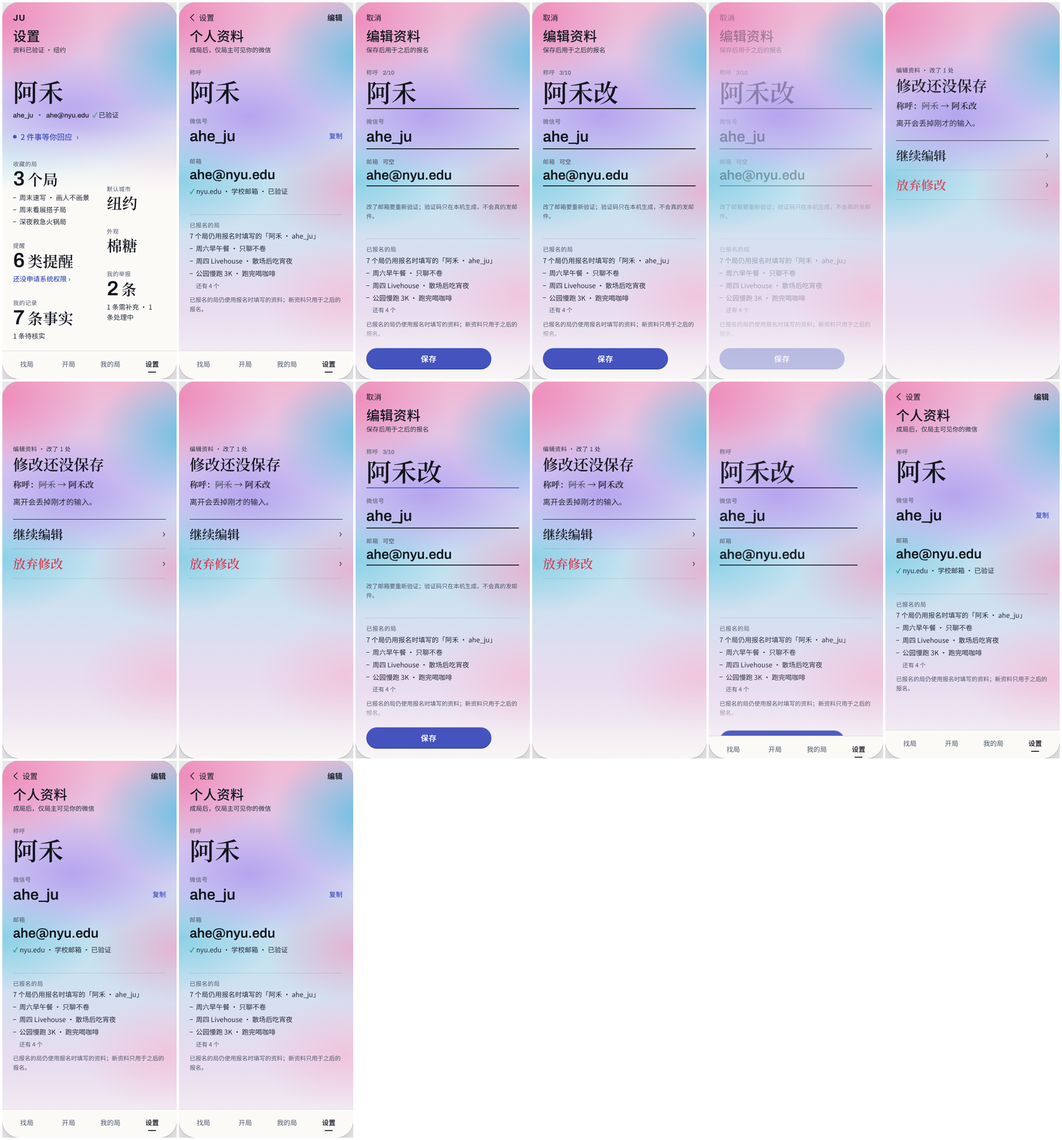
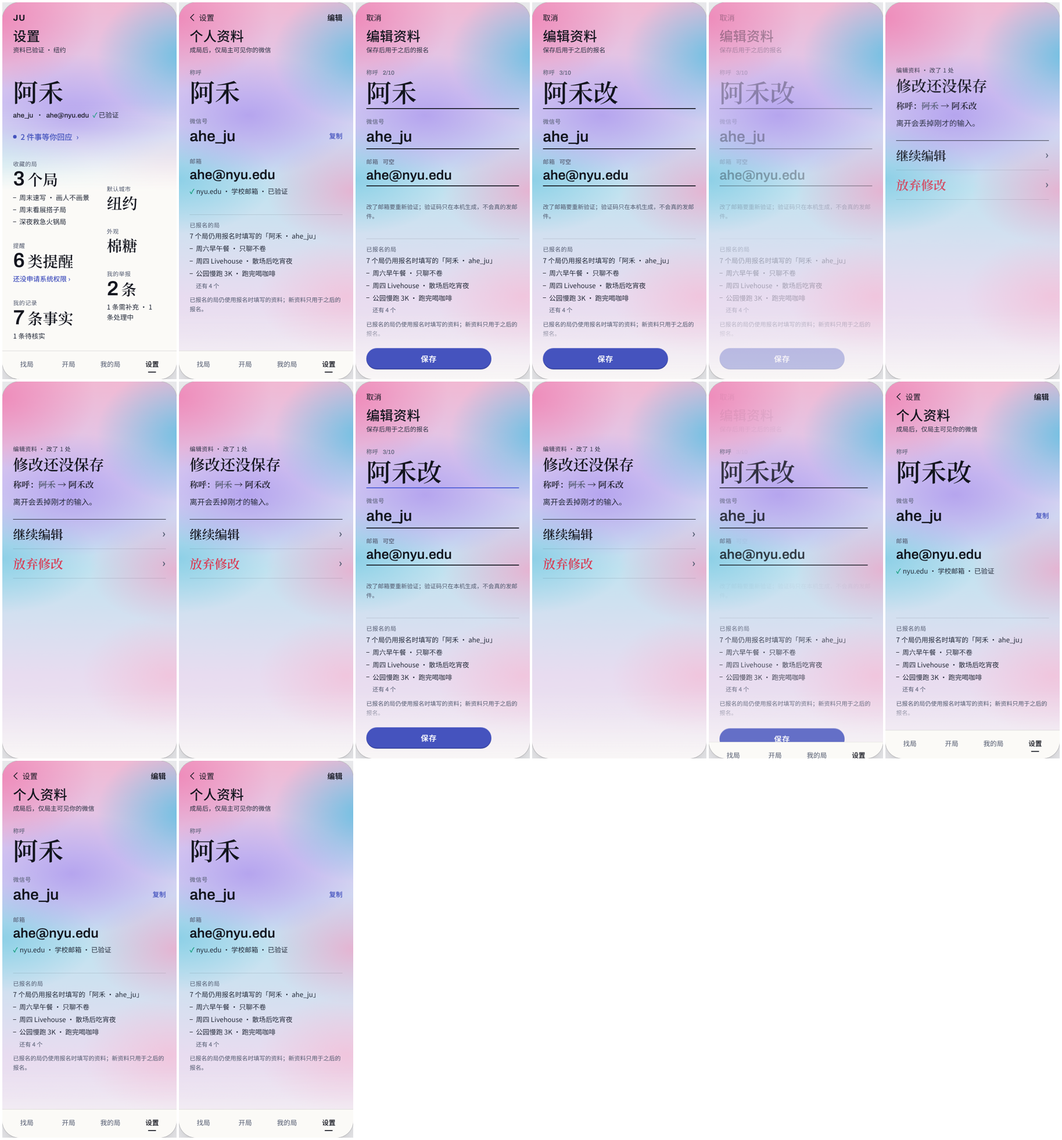
Settings R2: S08 fix round complete (detail pages as rows of columns with a 64px lead value, whole-number peeks, no text selection on drag); lead re-check done, independent second review started; in-flight files
Claude-Session: https://claude.ai/code/session_01HHMV8n5dsCb7GnB9ZyBH3p

diff --git a/settings-r2/concepts/src/S01.dc.html b/settings-r2/concepts/src/S01.dc.html
@@ -214,7 +214,7 @@ body{margin:0}
 .s01-lentb:active .s01-rt{color:var(--blue);transition:color 90ms}
 .s01-say-s{margin-top:10px;font-size:28px;line-height:1.3}
 .s01-say.is-act{color:var(--blue)}
-.s01-lent.is-swapout :is(.s01-lentb,.s01-lentf){animation:s01-fo calc(200ms * var(--k,1)) var(--e1) forwards}
+.s01-lent.is-swapout :is(.s01-lentb,.s01-lentf){animation:s01-fo calc(260ms * var(--k,1)) var(--e2) forwards}
 .s01-lent.is-swapin :is(.s01-lentb,.s01-lentf){animation:s01-fi calc(240ms * var(--k,1)) var(--e1) backwards}
 /* list yield: a removed entry folds its height away (rows below follow); undo unfolds it */
 .s01-yield{display:grid;grid-template-rows:1fr}
@@ -284,6 +284,9 @@ body{margin:0}
 .s01-li{display:block;margin-top:7px;padding-left:14px;position:relative;font-size:15px;line-height:1.45;color:var(--body);word-break:keep-all;overflow-wrap:anywhere;display:-webkit-box;-webkit-line-clamp:2;-webkit-box-orient:vertical;overflow:hidden}
 .s01-li::before{content:"";position:absolute;left:0;top:.72em;width:7px;height:1px;background:var(--ink)}
 .s01-li+.s01-li{margin-top:5px}
+/* home: one line per favourite — the name, then its tagline only if the whole tagline fits (it wraps to the clipped 2nd line otherwise) */
+.s01-li.is-1{display:block;height:1.45em;-webkit-line-clamp:none}
+.s01-li.is-1>span{display:inline-block;max-width:100%;white-space:nowrap;overflow:hidden;text-overflow:ellipsis;vertical-align:top}
 .s01-more{display:block;margin-top:7px;padding-left:14px;font-size:13px;color:var(--sec)}
 .s01-idx{display:flex;flex-wrap:wrap;margin-top:52px;border-top:1px solid var(--rule)}
 .s01-idx button{position:relative;min-height:56px;padding:0 15px 0 0;margin-right:15px;font-size:15px;color:var(--body)}
@@ -529,7 +532,7 @@ textarea.s01-in{min-height:1lh}
                   <span class="s01-lab">收藏的局</span>
                   <sc-if value="{{v.home.favEmpty}}"><span class="s01-val" data-m="fav-n">还没有</span><span class="s01-sub">遇到想去的，留在这里</span></sc-if>
                   <sc-if value="{{v.home.favAny}}"><span class="s01-val" data-m="fav-n"><b class="s01-n">{{v.home.favN}}</b>个局</span>
-                    <sc-for list="{{v.home.favNames}}" as="f" hint-placeholder-count="3"><span class="s01-li">{{f}}</span></sc-for>
+                    <sc-for list="{{v.home.favNames}}" as="f" hint-placeholder-count="3"><span class="s01-li is-1"><span>{{f.a}}</span><sc-if value="{{f.b}}"><span>{{f.b}}</span></sc-if></span></sc-for>
                     <sc-if value="{{v.home.favMore}}"><span class="s01-more">{{v.home.favMore}}</span></sc-if></sc-if>
                 </button>
                 <button type="button" class="s01-blk" data-origin="notify" onClick="{{v.h.goVal.notify}}">
@@ -993,7 +996,6 @@ function s01Pg(s) { return s === 'profile-edit' ? 'profile' : (s === 'favorite-d
 /* 局 titles: the separator dot stays with the phrase before it, so a line never starts with (or is only) a dot */
 function s01T(t) { return String(t || '').replace(/ · /g, '\u00a0· '); }
 /* home list: at most two phrases of a title, never ending on a separator */
-function s01Short(t) { var p = String(t || '').split(' · '); return p.length > 2 ? s01T(p.slice(0, 2).join(' · ')) + '…' : s01T(t); }
 function s01Brk(t) { return String(t || '').replace(/([@._-])/g, '$1'); }
 function s01Uniq(s) { var seen = {}, out = ''; Array.from(s).forEach(function (ch) { if (!seen[ch] && !/\s/.test(ch)) { seen[ch] = 1; out += ch; } }); return out; }
 function s01Strings(o, out) { if (typeof o === 'string') out.push(o); else if (o && typeof o === 'object') Object.keys(o).forEach(function (k) { s01Strings(o[k], out); }); return out; }
@@ -1175,10 +1177,10 @@ class Component extends DCLogic {
     v.mailState = you.email ? (you.verified ? '已验证' : '未验证') : ''; v.mailMark = you.email && you.verified ? '✓' : '';
     v.copyFail = you.copyFail ? JUS.COPY.copyFailInline + '：' + you.copyFail : '';
     /* home */
-    var favRows = c.fav.rows || []; var reps = c.reps.rows || []; var repOpen = reps.filter(function (r) { return r.open; }).length; var perm = sum.permission;
+    var favRows = c.fav.rows || []; var perm = sum.permission;
     v.home = {
       aux: ((!you.wx || !you.email) ? '资料待完善' : you.verified ? '资料已验证' : '邮箱未验证') + ' · ' + sum.cityLabel,
-      favAny: sum.favCount > 0, favEmpty: sum.favCount === 0, favN: String(sum.favCount), favNames: favRows.slice(0, 3).map(function (r) { return s01Short(r.title); }), favMore: sum.favCount > 3 ? '还有 ' + (sum.favCount - 3) + ' 个' : '',
+      favAny: sum.favCount > 0, favEmpty: sum.favCount === 0, favN: String(sum.favCount), favNames: favRows.slice(0, 3).map(function (r) { var p = String(r.title || '').split(' · '); return { a: p[0], b: p.length > 1 ? '\u00a0·\u00a0' + p[1] + (p.length > 2 ? '…' : '') : '' }; }), favMore: sum.favCount > 3 ? '还有 ' + (sum.favCount - 3) + ' 个' : '',
       notifyN: String(c.notify.onCount),
       permLine: ({ default: '还没申请系统权限 ›', requesting: '正在等系统回答', granted: sum.serviceConnected ? '系统已允许 · 可以送达' : '系统已允许 · 提醒暂未开通', denied: '系统通知已拒绝', unsupported: '当前环境不支持系统通知' })[perm] || '',
       permCls: perm === 'default' ? ' s01-link' : '',

diff --git a/settings-r2/concepts/src/S08.dc.html b/settings-r2/concepts/src/S08.dc.html
@@ -1020,8 +1020,7 @@ class Component extends DCLogic {
     /* help / privacy / about / rules */
     x.hp = { u: sub('help', [{ name: '常见问题' }, { name: '我的反馈 ' + c.help.feedback.length, n: c.help.feedback.length }, { name: '约定与举报', n: JUS.RULES.length }]), nfb: c.help.feedback.length };
     x.pv = { u: sub('privacy', [{ name: '规则' }, { name: '你的局 ' + c.privacy.facts.length, n: c.privacy.facts.length }]), n: c.privacy.facts.length, g: (c.privacy.general || []).map((t, i) => ({ k: ['称呼', '微信', '邮箱', '联系'][i] || '', t: t })) };
-    const abv = String(c.about.version || '').split(' · ');
-    x.ab = { h1: abv[0], h2: abv.slice(1).join(' · '), cities: JUS.CITIES.length + ' 座', built: String(c.about.built || '').slice(0, 10) || '本机', u: sub('about', [{ name: '关于' }, { name: '约定', n: JUS.RULES.length }]) };
+    x.ab = { cities: JUS.CITIES.length + ' 座', built: String(c.about.built || '').slice(0, 10) || '本机', u: sub('about', [{ name: '关于' }, { name: '约定', n: JUS.RULES.length }]) };
     const ru = sub('rules', c.help.groups.map(g => ({ name: g.name })));
     x.ru = Object.assign(ru, { panes: c.help.groups.map((g, j) => ({ name: g.name, line: g.line, rules: g.rules, pc: ru.pc[j], st: '--j:' + j, sc: ru.sc[j], on: ru.on[j] })) });
     /* seams */

diff --git a/settings-r2/spec/verification.md b/settings-r2/spec/verification.md
@@ -35,7 +35,7 @@
 | S03 上光下墨 | 12 页（三环境 + 灰度）与确认层：两种材料贯穿；提出账户页偏素、光晕半亮档、保存落回时长、墨色下半是否像通用深色四处待判 | **1 blocker / 5 major / 11 minor**（另报共享 3 minor，已在 `4585eb1` 修：手机内不提评审面板与存储键、已允许 + 已连接时不再说「暂未开通」）。blocker：我的局历史行的回执被截成「举报 · ···」，三个宽度都看不到「已提交 / 已受理 / 需补充」。major：toast 固定在底部 100px、无底，保存后压在「编辑资料」上；首页墨面没有被点亮的焦点（灰度下一摞等灰的盒子）；收藏拿出 / 撤回无让位动作、颜色按位置分配会换色；375 下资料页「编辑资料」在根导航下面；保存后拖关键帧停在「保存中…」且重播会再写一次数据。回答：账户页可接受但最弱；光晕下三档亮度仍可读；保存时长感觉正常；墨色下半在光晕 / 落日成立、棉糖最像通用深色 | **已完成**（构建者自报：blocker + 5 major + 明确的 minor 已修，coverage 52/52、宽度 / 键盘 / 减少动态无问题）。主负责人复看 `twelve/sheet.jpg`、`home-3env-gray.jpg`、`fix/mine-receipts/strip1.jpg`：我的局回执独占一行、三个阶段可读（blocker 已解）；首页「2 件事等你回应」成为墨面上最亮的一块（三环境与灰度）；toast 移到光带——**视觉通过**（最终离线文件上另做一次十套横向复核） |
 | S05 居中仪式 | 12 页接触表：每页同尺寸光团承载主角；提出单调、居中长文、内嵌卡像「手机里的手机」三处待判 | **0 blocker / 5 major / 12 minor**。major（视觉两项为重点）：**单调**——每张卡同一位置同一 316px 光团，12 页只差光里的字，帮助与规则都以「18 条约定」开头，光晕下 12 个相同的火圈，列表与控件总在首屏以下；**手机里的手机**——卡片接近手机比例、嵌套圆角、阴影、JU 标像状态栏，两侧 24px 空白浪费 48px 文字宽度；资料静止态（签名终点）说明被底部渐隐截断；编辑页 40px 单行居中输入只放得下约 7 个汉字；「开着｜关了」看似两段却整体切换（点已选的「开着」反而关掉）。回答：仪式感只在第一步，之后是单调；规则 16px 居中可读，但 3 行以上段落应离开中轴。共享 3 minor（举报补充无 `materialsText`、异议后仍写「可随时提出异议」、长称呼 13 字超规则）已在 `799e450` 修 | **已完成**（构建者自报：5 major + 小项已处理，coverage 52/52、宽度 / 键盘 / 减少动态无问题）。主负责人复看三环境 12 页接触表：光按页面类型变形（整盘 / 穹顶 / 72px 光章 / 表单随焦点的小光），列表从首屏开始；卡片长成后是满宽底页、只露 44px 下层页，去掉了「手机里的手机」；编辑框按长度降字号——**视觉通过**（光晕下环仍偏强，作为该环境的形状保留） |
 | S04 海报拼块 | 12 页 + 7 页 × 三环境：全部海报块构图；提出 13px 小字对比、「阿」水印、高饱和配色是否仍属 JU 三处待判 | **0 blocker / 6 major / 14 minor**，无一页视觉直接不过。major：六个文字表单读成空色块（标签在左上、输入在 225–360px 之下）；光晕 / 落日品牌漂移（大面积饱和平涂、无光，落日的 #3D8FF0 块紧贴 JU 蓝 CTA）；收藏拿出 / 撤回无动作、颜色随位置变；toast 盖住下一动作并吞点击；重播「保存」会写入真实资料、保存后关键帧静止。回答：13px 小字对比最低 6.29:1 / 5.48:1，可读；「阿」水印在棉糖有益、在光晕 / 落日与称呼抢。共享项：文件输入 `multiple` 被运行时丢掉、继续编辑后焦点不回字段（`082e2c6` 修）、举报补充材料不显示（`799e450` 修） | **已完成**（构建者自报：6 项 + 全部 major 与明确的 minor 已修，coverage 52/52、宽度 / 键盘 / 减少动态无问题）。主负责人复看 `stage2/environments.jpg`、`text-forms.jpg`：光晕 / 落日的身份带承载环境光（光晕橙紫光环、落日低垂的太阳），其余块降一档，CTA 旁不再是蓝块；六个文字表单以 26px 问句 + 书写横线开头——**视觉通过**（高饱和是方向本身，已与 JU 的光连接） |
-| S08 横向分栏 | 12 页接触表：栏 + 露边 + 书脊贯穿；**主负责人判断：目前最不出挑**，白纸卡盖住天色、详情页偏键值行——交复核 | **不通过：1 blocker / 6 major / 7 minor**（另报共享 1 minor：文件输入 `multiple` 丢失，已在 `082e2c6` 修）。blocker（视觉）：详情页（记录 / 举报 / 收藏 / 找局详情同一模板，及关于）在栏框里是「白卡 + 大日期 + 4–5 行键值」，读成通用卡片界面、明显弱于首页；光晕下天色缩到页头。major：64px 露边截断数字与字词，读成溢出；子栏鼠标拖动会选中文字，之后的拖动变成浏览器文字拖拽、滑动失效（两次翻栏失败、减少动态下「应用落日」未出现）；深层页头收拢时标题撞上长返回标签；收藏拿出 / 撤回时 toast 正好压在下一个撤回条上；规则全文每行约 13 字、下一组编号叠在露边里；举报进度条把当前「处理中」藏在屏外。回答：首页三环境通过；列表页靠 64px 数字标题通过；书脊可读且值得保留，但应可点返回 | 已下达（视觉 blocker 优先） |
+| S08 横向分栏 | 12 页接触表：栏 + 露边 + 书脊贯穿；**主负责人判断：目前最不出挑**，白纸卡盖住天色、详情页偏键值行——交复核 | **不通过：1 blocker / 6 major / 7 minor**（另报共享 1 minor：文件输入 `multiple` 丢失，已在 `082e2c6` 修）。blocker（视觉）：详情页（记录 / 举报 / 收藏 / 找局详情同一模板，及关于）在栏框里是「白卡 + 大日期 + 4–5 行键值」，读成通用卡片界面、明显弱于首页；光晕下天色缩到页头。major：64px 露边截断数字与字词，读成溢出；子栏鼠标拖动会选中文字，之后的拖动变成浏览器文字拖拽、滑动失效（两次翻栏失败、减少动态下「应用落日」未出现）；深层页头收拢时标题撞上长返回标签；收藏拿出 / 撤回时 toast 正好压在下一个撤回条上；规则全文每行约 13 字、下一组编号叠在露边里；举报进度条把当前「处理中」藏在屏外。回答：首页三环境通过；列表页靠 64px 数字标题通过；书脊可读且值得保留，但应可点返回 | **修复轮已完成**（构建者自报：详情页改为一排栏、首栏为带 64px 主值的强调色带、其余值 22px、栏间露天色；露边只显示栏名 + 整数；拖动不再选中文字；返回标签随收拢淡成「‹」；toast 与撤回条同一时刻只显示一个；规则整宽栏、举报进度改竖向时间线；coverage 52/52、宽度 / 键盘 / 减少动态无问题）。主负责人复看 `details/sheet.jpg` 与灰度缩略图：详情页与首页同一语言、灰度下不弱于首页。因为是唯一视觉不通过的一套，**已派独立二次复核**（`settings-r2/evidence/S08/recheck.md`） |
 | S09 夜灯 | 12 页接触表：暗屋 + 三团色光、值染灯色；提出二级页光弱、375 / 430 对比度、构建者三处自列问题待判 | **0 blocker / 2 major / 8 minor**，功能无问题。major：墨板页下半「平涂墨 + 一团光」——去掉文字后色光面积首页 45–47%、墨板页 22–27%，下半屏只有 2–5%，52px 主值以下读成通用深色列表；编辑页长数据单行输入截断（邮箱只剩「.2026@stern.nyu.edu」）。回答：375 / 430 对比度问题不成立（染色值最低 4.62:1，只有反馈占位符 3.7–4.2:1）；首页 toast 遮挡、长邮箱横向滚动、层内推入空板（实测约 13–40ms）均确认。共享修复（离场草稿、关键帧自动重播等）在 S09 上通过 | **已完成**（构建者自报：墨板页有色光 22–27% → 29–46%，下半屏 2–5% → 19–55%；编辑字段换行；toast 移到页头亮带；根切换与推入不再有空板；coverage 52/52、宽度 / 键盘 / 减少动态无问题，对比度最低 4.62:1）。主负责人复看 `board-depth/sheet.jpg`（三页滚到下半屏 × 三环境）与 `ad-12/cotton`：下半屏有按页面类型放置的低灯，墨板读成被照亮的房间而非深色列表；编辑页增加两句被照亮的陈述——**视觉通过** |
 | S01 字即内容 | 12 页、确认层、三环境接触表：衬线大值 + 编辑式正文；提出列表页灰度、下半近白纸面、光晕三处待判 | **0 blocker / 4 major / 9 minor**（另报共享 1 minor：举报摘要把「已提交」算作「处理中」，已在 `c2f9acc` 修）。major：收藏 / 举报列表页在灰度并排里读成「大数字 + 普通列表」，空白纸占屏 22% / 31%（构建者自列风险成立）；首页「我的举报」副行数的是点击函数，与举报页不一致；举报表单返回我的局的 FLIP 标题横穿控件后换行跳变；收藏拿出 / 撤回无让位动作。回答：首页、详情、整屏色场页三环境撑得住，收藏 / 举报 / 账户 / 关于撑不住；光晕光环每页同一位置，整屏页约 60% 平涂暖白 | 已下达 |
 | S07 预览在上 | 12 页接触表：下半部由列表改为「控件拥有预览的那一部分」的磁贴；提出详情页「事实格 + 小图标」交复核 | **0 blocker / 5 major / 10 minor**，无一页视觉直接不过。major：详情页（记录 / 举报 / 收藏 / 找局详情，关于与账户同模板）下半是重复舞台卡内容的通用事实格表、标题泛化、图标与卡片的联动只在鼠标悬停时有效；帮助与反馈入口页是「返回 + 标题 + 列表」默认页；进入 / 离开六个文字表单时按 DOM 顺序叠放，约 150ms 文字叠印；资料页邮箱磁贴把新值截成「col… 刚更新」；双击首页磁贴压两层（共享，已在 `d1116d1` 修）。回答：首页下半已读成设计过的磁贴（略密）；规则全文可接受（舞台卡跟随阅读位置）；归属色静止时像粉彩装饰、聚焦时才有意义；光晕 / 落日下舞台卡清晰好看 | **已完成**（构建者自报：详情页去掉重复事实格、改为动作磁贴 + 「经过」时间线 + 原文，点按时间线点亮卡片对应行；帮助页改为小磁贴；页面按角色叠放、不再叠印；值换行不再截断；coverage 52/52、宽度 / 键盘 / 减少动态无问题）。主负责人复看 `details/sheet.jpg` 与 `pages12`：详情页以对象名为标题、下半只放卡片说不了的内容；帮助页与首页同一磁贴语言——**视觉通过** |

diff --git a/settings-r2/spec/motion/S01.md b/settings-r2/spec/motion/S01.md
@@ -9,6 +9,7 @@
 - **色板**：纸 `#FBFAF7` · 墨 `#14161F` · 正文 `#252b3a` · 次级 `#535b70` · 色光上的注释 `#2c3243` · JU 蓝 `#4553BE`（只用于主确认与文字链接）· 焦点 `#4A5AD6` · 错误 `#DA3A52` · 成功 `#0E9B76`。
 - **光源 / 表面**：唯一的光源是页顶的环境色场（棉糖 = 粉 / 薰衣草 / 青的多段径向水面；光晕 = 暖白底上一圈由橙转紫的柔和光环（conic 渐变 + 环形遮罩，内缘更软），光环按页面换尺度与位置：首页在称呼右侧，整屏页（资料 / 编辑 / 表单 / 外观）放大 1.3–1.45 倍并移到主角值后面，外圈再有一层更淡的暖环把暖色带到纸线；光环换位与色场幕同一个导航时钟（`s01-hA/hB` 关键帧，从当前位置到目的页位置，返回时在退出相位里就走向下层页），所以暂停 / 关键帧能停住它；落日 = 蓝 → 橙 → 黄的天色）。色场高度按页面定义（首页 50%、资料 / 编辑 / 表单 / 外观整屏、列表 40–44%、详情 56–58%、规则 34%），向下用一层 200px 渐隐的纸色幕（`.s01-veil`）过渡成纸。滚动时幕跟随页面上移（光被读者向下推开）。不用玻璃、颗粒、发光或纹理；唯一的实心面是 JU 蓝 CTA。
 - **列表语法**（收藏 / 记录 / 举报 / 找局 / 我的局 / 时间线）：顶部一条墨色规线开始，像目录页；左栏 84px 是 30px Archivo 日期数字（`12.27` + 周几），它是页面的字脊；右栏是衬线局名作标题（整栏宽度，标记 / 动作放在元信息下面，局名不再被挤成窄栏），15px 元信息一行；行高 ≥ 76px；分组用「大数字 + 衬线组名」（如「2 出席记录」）。开关是排版开关：一行就是开关，「开 / 关」两个字交换下划线。
+- **首页收藏预览**：每个局名一行；第一个「 · 」之后的副题只在整段放得下时出现（放不下就整段折到被裁掉的第二行），所以不会出现截在分隔点上的「·…」，375 宽 long 变体首屏仍能看到 4 组值。
 - **主条目**：收藏页的第一条（最近收藏）、举报页最需要回应的一条（需补充优先）排成缩小的详情页：31px 衬线标题 + 50px Archivo 时间（或更新日期）+ 地点 / 局主（或对象 / 本地编号）两组值；举报把状态写成 28px 衬线句（需补充时用 JU 蓝）。条目少于 4 条时色场下沉到 66%，由色场和主条目撑住页面。账户页把「留在这台设备上的」写成 2×2 的大数字（收藏 / 记录 / 举报 / 反馈）；关于页的主角是「18 条约定」，三组约定各一个大数字，编号只作注释。
 - **确认层 / 系统提示 / 反馈**：不是白色底部卡片。页面自己的文字退场（170ms），问题句以 34px 衬线站进主角位置，影响的值写成「称呼：~~阿禾~~ → 阿禾 Ahe」，决定是 28px 衬线大字、用规线分开；危险项用错误色。toast / 撤销是根导航上方一条带 2px 墨线的脚注条（✓ / ! 标记 + 17px 衬线句）。
 - **页头收拢**：控制器把滚动进度写成 `--hc`（0→1，96px）；标题 `font-size: calc(30px - 12px * var(--hc))`，并以 `translate(calc(var(--hc) * (50cqw - 50%)), calc(var(--hc) * -33px))` 连续移入工具行中部（`.s01-hd` 是 `container-type:inline-size`）；14px 状态行 `opacity: 1 - 1.8·hc`；滚动区顶部遮罩边缘随 `--hc` 上移 60px。首页状态行是真实状态（「资料已验证 · 纽约」），演示边界只在账户 / 关于页说一句。
@@ -45,7 +46,7 @@
 - 返回：取消 = 同一 650ms 反向交叉；应用 = 写数据 + 脚注条「外观已换成「落日」」。
 
 ### 附：列表让位（收藏「拿出 / 撤回」）
-拿出：该行先淡（0–40%）并把行高从 1fr 收到 0fr（270ms `cubic-bezier(.4,0,.7,.2)`），下面的行跟着上移；收完才写数据，「N 个局」随之用 260ms 值更新动作换数。拿出的是主条目时，主条目内容先淡出（200ms），下一条在列表里的那一行同时收起，数据更新后主条目换成它并淡入（240ms）。撤回：反向——行从 0fr 展开（280ms），主条目内容交换回来；色场高度跨过 4 条时 420ms 缓动到新位置。
+拿出：该行先淡（0–40%）并把行高从 1fr 收到 0fr（270ms `cubic-bezier(.4,0,.7,.2)`），下面的行跟着上移；收完才写数据，「N 个局」随之用 260ms 值更新动作换数。拿出的是主条目时，主条目内容先淡出（260ms，渐入曲线，正好在换数据时到 0），下一条在列表里的那一行同时收起，数据更新后主条目换成它并淡入（240ms）；主条目位低于 30% 不透明的时间约 75ms（1× 实测）。撤回：反向——行从 0fr 展开（280ms），主条目内容交换回来；色场高度跨过 4 条时 420ms 缓动到新位置。
 ### 附：断行不同的值
 同一个值在两页的行数不同（例如举报表单里的一行标题回到「我的局」的两行标题）时，FLIP 不硬跳：前进时移动的值在 15–45% 淡入，返回时在 35–65% 淡出、目标处的真值在 45–85% 淡入；目标行的 ☆ / 举报 / 拿出等控件在值落定前保持隐藏，落定后 180ms 淡入。
 

diff --git a/JU-SETTINGS-R2-PROJECT-RECORD.md b/JU-SETTINGS-R2-PROJECT-RECORD.md
@@ -79,7 +79,7 @@
 | S05 居中仪式 | 单中轴对称 | 通过 | **代理自报完成**（05:1x；52/52、宽度 / 减少动态无问题；`settings-r2/evidence/S05/twelve-390-cotton.png`） | 12 页接触表已看：每页以同尺寸环境光团承载主角，光下排法各异，成立；**主要风险**：整套翻看是否单调（构建者自列）、居中长文（规则 16px 约 20 字 / 行）、二级页内嵌圆角卡是否像「手机里的手机」 | **0 blocker / 5 major / 12 minor**（`settings-r2/evidence/S05/verify.md`，单调与「手机里的手机」被确认）；**修复轮已完成，主负责人复看视觉通过** |
 | S06 一段话 | 一整段关于你的话，值可点 | 通过 | **代理自报完成**（04:5x；52/52、宽度 / 键盘 / 减少动态无问题、对比度 63 例全过、断行扫描 26,145 字无行首标点；`settings-r2/evidence/S06/twelve/`） | 12 页接触表已看：二级页都是「一句话 + 一条光带」的构图，无默认表单；待判：带下方残留的段落是否读成杂讯、带内 13px 说明的可读性、多收藏时扫日期 | **1 blocker / 5 major / 9 minor**（`settings-r2/evidence/S06/verify.md`）；**修复轮已完成（blocker 已解），主负责人复看视觉通过** |
 | S07 预览在上 | 固定实时预览 + 控件 | 通过 | **代理自报完成**（05:3x；52/52、宽度 / 键盘 / 减少动态无问题；`settings-r2/evidence/S07/pages12/`） | 12 页接触表已看：下半部由列表改为「控件拥有预览的那一部分」的色块磁贴（三种归属色）、确认层先显示后果；详情页仍偏「事实格 + 小图标」——交复核判断 | **0 blocker / 5 major / 10 minor**（`settings-r2/evidence/S07/verify.md`）；**修复轮已完成，主负责人复看视觉通过** |
-| S08 横向分栏 | 横向整高栏 | 通过 | **代理自报完成**（05:1x；52/52、宽度 / 减少动态无问题；标签栏已全部去掉；`settings-r2/evidence/S08/pages-390/`） | 12 页接触表已看：栏 + 露边 + 书脊的结构贯穿，确认改为从右到达的高栏；**视觉上是目前最不出挑的一套**：白纸卡盖住大部分天色，详情页偏「键值行」——交独立复核判是否过视觉门槛 | **不通过：1 blocker（视觉：详情页读成通用卡片）/ 6 major / 7 minor**（`settings-r2/evidence/S08/verify.md`）；修复轮已下达 |
+| S08 横向分栏 | 横向整高栏 | 通过 | **代理自报完成**（05:1x；52/52、宽度 / 减少动态无问题；标签栏已全部去掉；`settings-r2/evidence/S08/pages-390/`） | 12 页接触表已看：栏 + 露边 + 书脊的结构贯穿，确认改为从右到达的高栏；**视觉上是目前最不出挑的一套**：白纸卡盖住大部分天色，详情页偏「键值行」——交独立复核判是否过视觉门槛 | **不通过：1 blocker（视觉：详情页读成通用卡片）/ 6 major / 7 minor**（`settings-r2/evidence/S08/verify.md`）；修复轮已完成，主负责人复看后**派独立二次复核** |
 | S09 夜灯 | 墨底 + 光下的陈述 | 通过 | **代理自报完成**（05:2x；52/52、宽度 / 键盘（逐状态）/ 减少动态无问题、自写对比度审计 1929 个文字元素最低 4.62:1；`settings-r2/evidence/S09/ad-12/`） | 12 页接触表已看：暗屋 + 三团色光，值染灯色，二级页是升起的墨板，成立；待判：二级页光较弱是否读成通用深色模式、375 / 430 下的对比度、构建者自列三处小问题 | **0 blocker / 2 major / 8 minor**（`settings-r2/evidence/S09/verify.md`）；**修复轮已完成，主负责人复看视觉通过** |
 | S10 叠层 | 整宽纸层叠放、露 72px 边、天光在上 | 通过 | **代理自报完成**（04:2x；52/52 状态、0 错误；`settings-r2/evidence/S10/ad-12/`） | 12 页接触表已看：首页叠层与二级页「抽起一层」成立；待判：根导航「开局」偏浅、资料页下半空白、底部五条 24px 边的可读性 | **0 blocker / 5 major / 12 minor**（`settings-r2/evidence/S10/verify.md`）；**修复轮已完成，主负责人复看视觉通过** |
 
